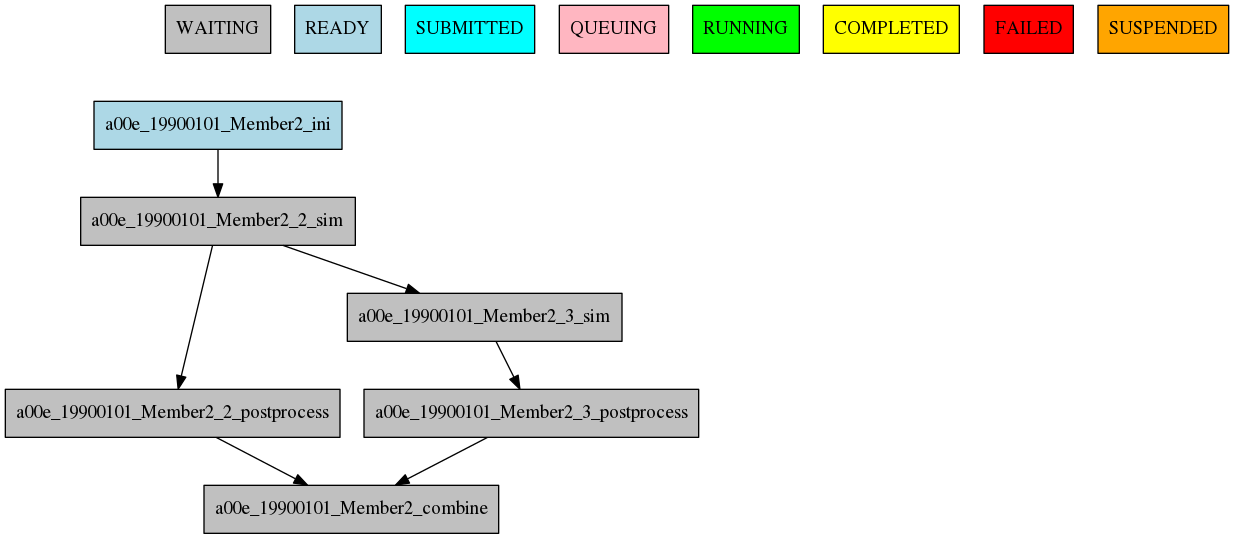
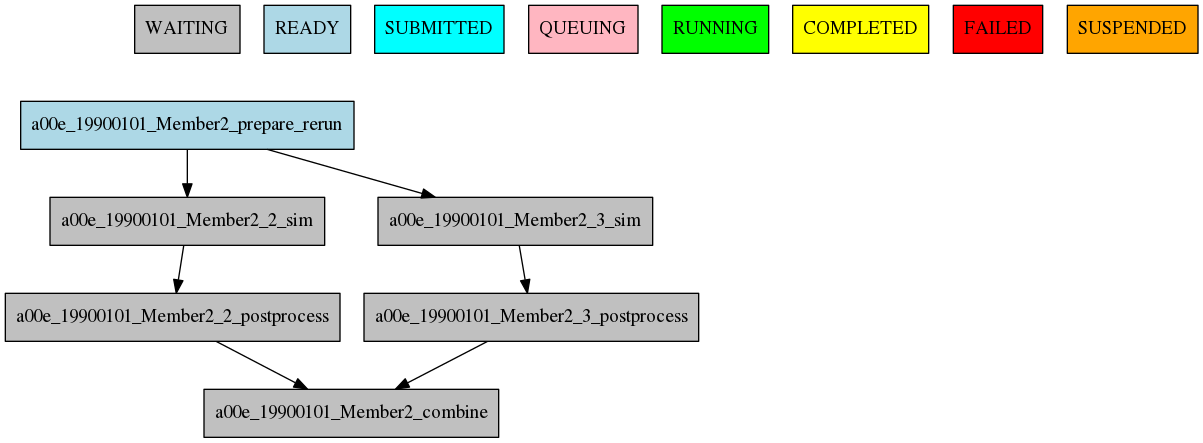
Updated documentation

Changed region(s): [[0.0, 0.1761, 0.5844, 0.9977], [0.0923, 0.0, 1.0, 0.1467]]

diff --git a/docs/source/conf.py b/docs/source/conf.py
@@ -34,6 +34,9 @@ extensions = [
     'sphinx.ext.pngmath',
 ]
 
+numfig = True
+numfig_format = {'figure': '%s', 'table': '%s', 'code-block': '%s'}
+
 # Add any paths that contain templates here, relative to this directory.
 templates_path = ['_templates']
 
@@ -59,9 +62,9 @@ author = u'Earth Science Department, Barcelona Supercomputing Center, BSC'
 # built documents.
 #
 # The short X.Y version.
-version = '3.1'
+version = '3.2'
 # The full version, including alpha/beta/rc tags.
-release = '3.1.6'
+release = '3.2.'
 
 # The language for content autogenerated by Sphinx. Refer to documentation
 # for a list of supported languages.

diff --git a/autosubmit/job/job_list.py b/autosubmit/job/job_list.py
@@ -529,7 +529,7 @@ class JobList:
             if job.file is None or job.file == '':
                 self._remove_job(job)
 
-        # Simplifing dependencies: if a parent is alreaday an ancestor of another parent,
+        # Simplifying dependencies: if a parent is already an ancestor of another parent,
         # we remove parent dependency
         for job in self._job_list:
             for parent in list(job.parents):

diff --git a/docs/source/workflows.rst b/docs/source/workflows.rst
@@ -1,33 +1,59 @@
-##################
-Defining workflows
-##################
+#####################
+Defining the workflow
+#####################
+
+One of the most important step that you have to do when planning to use autosubmit for an experiment is the definition
+of the workflow the experiment will use. On this section you will learn about the workflow definition syntax so you will
+be able to exploit autosubmit's full potential
+
+.. warning::
+   This section is NOT intended to show how to define your jobs. Please go to :doc:`tutorial` section for a comprehensive
+   list of job options.
 
 
 Simple workflow
---------------_
+---------------
+
+The simplest workflow that can be defined it is a sequence of two jobs, with the second one triggering at the end of
+the first. To define it, we define the two jobs and then add a DEPENDECIES attribute on the second job referring to the
+first one.
+
+It is important to remember when defining workflows that DEPENDENCIES on autosubmit always refer to jobs that should
+be finished before launching the job that has the DEPENDENCIES attribute.
 
 
 .. code-block:: ini
-    [One]
-    FILE = one.sh
 
-    [Two]
-    FILE = two.sh
-    DEPENDENCIES = One
+   [One]
+   FILE = one.sh
 
+   [Two]
+   FILE = two.sh
+   DEPENDENCIES = One
+
+
+The resulting workflow can be seen on figure 5.1
 
 .. figure:: workflows/simple.png
-   :width: 85%
+   :name: simple
+   :width: 100%
    :align: center
    :alt: simple workflow plot
 
+   Example showing a simple workflow with two sequential jobs
 
 
-Running jobs once per startdate, member and chunk
--------------------------------------------------
-2 startdates, 2 members, 2 chunks
+Running jobs once per startdate, member or chunk
+------------------------------------------------
+
+Autosubmit is capable of running ensembles made of various startdates and members. It also has the capability to
+divide member execution on different chunks.
+
+To set at what level a job has to run you have to use the RUNNING attribute. It has four posible values: once, date,
+member and chunk corresponding to running once, once per startdate, once per member or once per chunk respectively.
 
 .. code-block:: ini
+
     [once]
     FILE = Once.sh
 
@@ -46,40 +72,77 @@ Running jobs once per startdate, member and chunk
     DEPENDENCIES = member
     RUNNING = chunk
 
+
+The resulting workflow can be seen on figure 5.2 for a experiment with 2 startdates, 2 members and 2 chunks.
+
 .. figure:: workflows/running.png
-   :width: 85%
+   :width: 100%
    :align: center
    :alt: simple workflow plot
+
+   Example showing how to run jobs once per startdate, member or chunk.
 
 
 Dependencies
 ------------
 
+Dependencies on autosubmit were introduced on the first example, but in this section you will learn about some special
+cases that will be very useful on your workflows.
+
 Dependencies with previous jobs
+_______________________________
+
+Autosubmit can manage dependencies between jobs that are part of different chunks, members or startdates. The next
+example will show how to make wait a simulation job for the previous chunk of the simulation. To do that, we add
+sim-1 on the DEPENDENCIES attribute. As you can see, you can add as much dependencies as you like separated by spaces
 
 .. code-block:: ini
-    [ini]
-    FILE = ini.sh
-    RUNNING = member
 
-    [sim]
-    FILE = sim.sh
-    DEPENDENCIES = ini sim-1
-    RUNNING = chunk
+   [ini]
+   FILE = ini.sh
+   RUNNING = member
 
-    [postprocess]
-    FILE = postprocess.sh
-    DEPENDENCIES = sim
-    RUNNING = chunk
+   [sim]
+   FILE = sim.sh
+   DEPENDENCIES = ini sim-1
+   RUNNING = chunk
+
+   [postprocess]
+   FILE = postprocess.sh
+   DEPENDENCIES = sim
+   RUNNING = chunk
+
+
+The resulting workflow can be seen on figure 5.3
+
+.. warning::
+
+   Autosubmit simplifies the dependencies, so the final graph usually does not show all the lines that you may expect to
+   see. In this example you can see that there are no lines between the ini and the sim jobs for chunks 2 to 5 because
+   that dependency is redundant with the one on the previous sim
+
 
 .. figure:: workflows/dependencies_previous.png
-   :width: 85%
+   :width: 100%
    :align: center
    :alt: simple workflow plot
 
+   Example showing dependencies between sim jobs on different chunks.
+
+
+
 Dependencies between running levels
+___________________________________
+
+On the previous examples we have seen that when a job depends on a job on a higher level (a running chunk job depending
+on a member running job) all jobs wait for the higher running level job to be finished. That is the case on the ini sim dependency
+on the next example.
+
+In the other case, a job depending on a lower running level job, the higher level job will wait for ALL the lower level
+jobs to be finished. That is the case of the postprocess combine dependency on the next example.
 
 .. code-block:: ini
+
     [ini]
     FILE = ini.sh
     RUNNING = member
@@ -99,16 +162,30 @@ Dependencies between running levels
     DEPENDENCIES = postprocess
     RUNNING = member
 
+
+The resulting workflow can be seen on figure 5.4
+
 .. figure:: workflows/dependencies_running.png
-   :width: 85%
+   :width: 100%
    :align: center
    :alt: simple workflow plot
+
+   Example showing dependencies between jobs running at different levels.
 
 
 Job frequency
 -------------
 
+Some times you just don need a job to ve run on every chunk or member. For example, you may want to launch the postprocess
+job after various chunks have completed. This behaviour can be achieved by using the FREQUENCY attribute. You can specify
+an integer I on this attribute an the job will run only once for each I iterations on the running level.
+
+.. hint::
+   You don't need to adjust the frequency to be a divisor of the total jobs. A job will always execute at the last
+   iteration of its running level
+
 .. code-block:: ini
+
     [ini]
     FILE = ini.sh
     RUNNING = member
@@ -129,25 +206,42 @@ Job frequency
     DEPENDENCIES = postprocess
     RUNNING = member
 
+
+The resulting workflow can be seen on figure 5.5
+
 .. figure:: workflows/frequency.png
-   :width: 85%
+   :width: 100%
    :align: center
    :alt: simple workflow plot
+
+   Example showing dependencies between jobs running at different frequencies.
 
 Rerun dependencies
 ------------------
 
-Chunks 2 and 3 of Member2
+Autosubmit has the possibility to rerun some chunks of the experiment without affecting everything else. In this case,
+autosubmit will automatically rerun all jobs of that chunk. If some of this jobs need another one on the workflow you
+have to add the RERUN_DEPENDENCIES attribute and specify which jobs to rerun.
+
+It is also usual that you will have some code that it is needed only in the case of a rerun. You can add this jobs to
+the workflow as usual and set the attribute RERUN_ONLY to true. This jobs will be omitted from the workflow in the normal
+case, but will appear on the reruns.
 
 .. code-block:: ini
+
+    [prepare_rerun]
+    FILE = prepare_rerun.sh
+    RERUN_ONLY = true
+    RUNNING = member
+
     [ini]
     FILE = ini.sh
-    DEPENDENCIES = ini sim-1
     RUNNING = member
 
     [sim]
     FILE = sim.sh
-    RERUN_DEPENDENCIES = ini combine
+    DEPENDENCIES = ini combine prepare_rerun
+    RERUN_DEPENDENCIES = combine prepare_rerun
     RUNNING = chunk
 
     [postprocess]
@@ -160,7 +254,11 @@ Chunks 2 and 3 of Member2
     DEPENDENCIES = postprocess
     RUNNING = member
 
+The resulting workflow can be seen on figure 5.6 for a rerun of chunks 2 and 3 of member 2.
+
 .. figure:: workflows/rerun.png
-   :width: 85%
+   :width: 100%
    :align: center
    :alt: simple workflow plot
+
+   Example showing a rerun workflow for chunks 2 and 3.

diff --git a/docs/source/tutorial.rst b/docs/source/tutorial.rst
@@ -245,7 +245,7 @@ Examples:
     # HOST =
     ## Project for the machine scheduler
     # PROJECT =
-    ## Budget account for the machine scheduler. If omited, takes the value defined in PROJECT
+    ## Budget account for the machine scheduler. If omitted, takes the value defined in PROJECT
     # BUDGET =
     ## Option to add project name to host. This is required for some HPCs
     # ADD_PROJECT_TO_HOST = False
